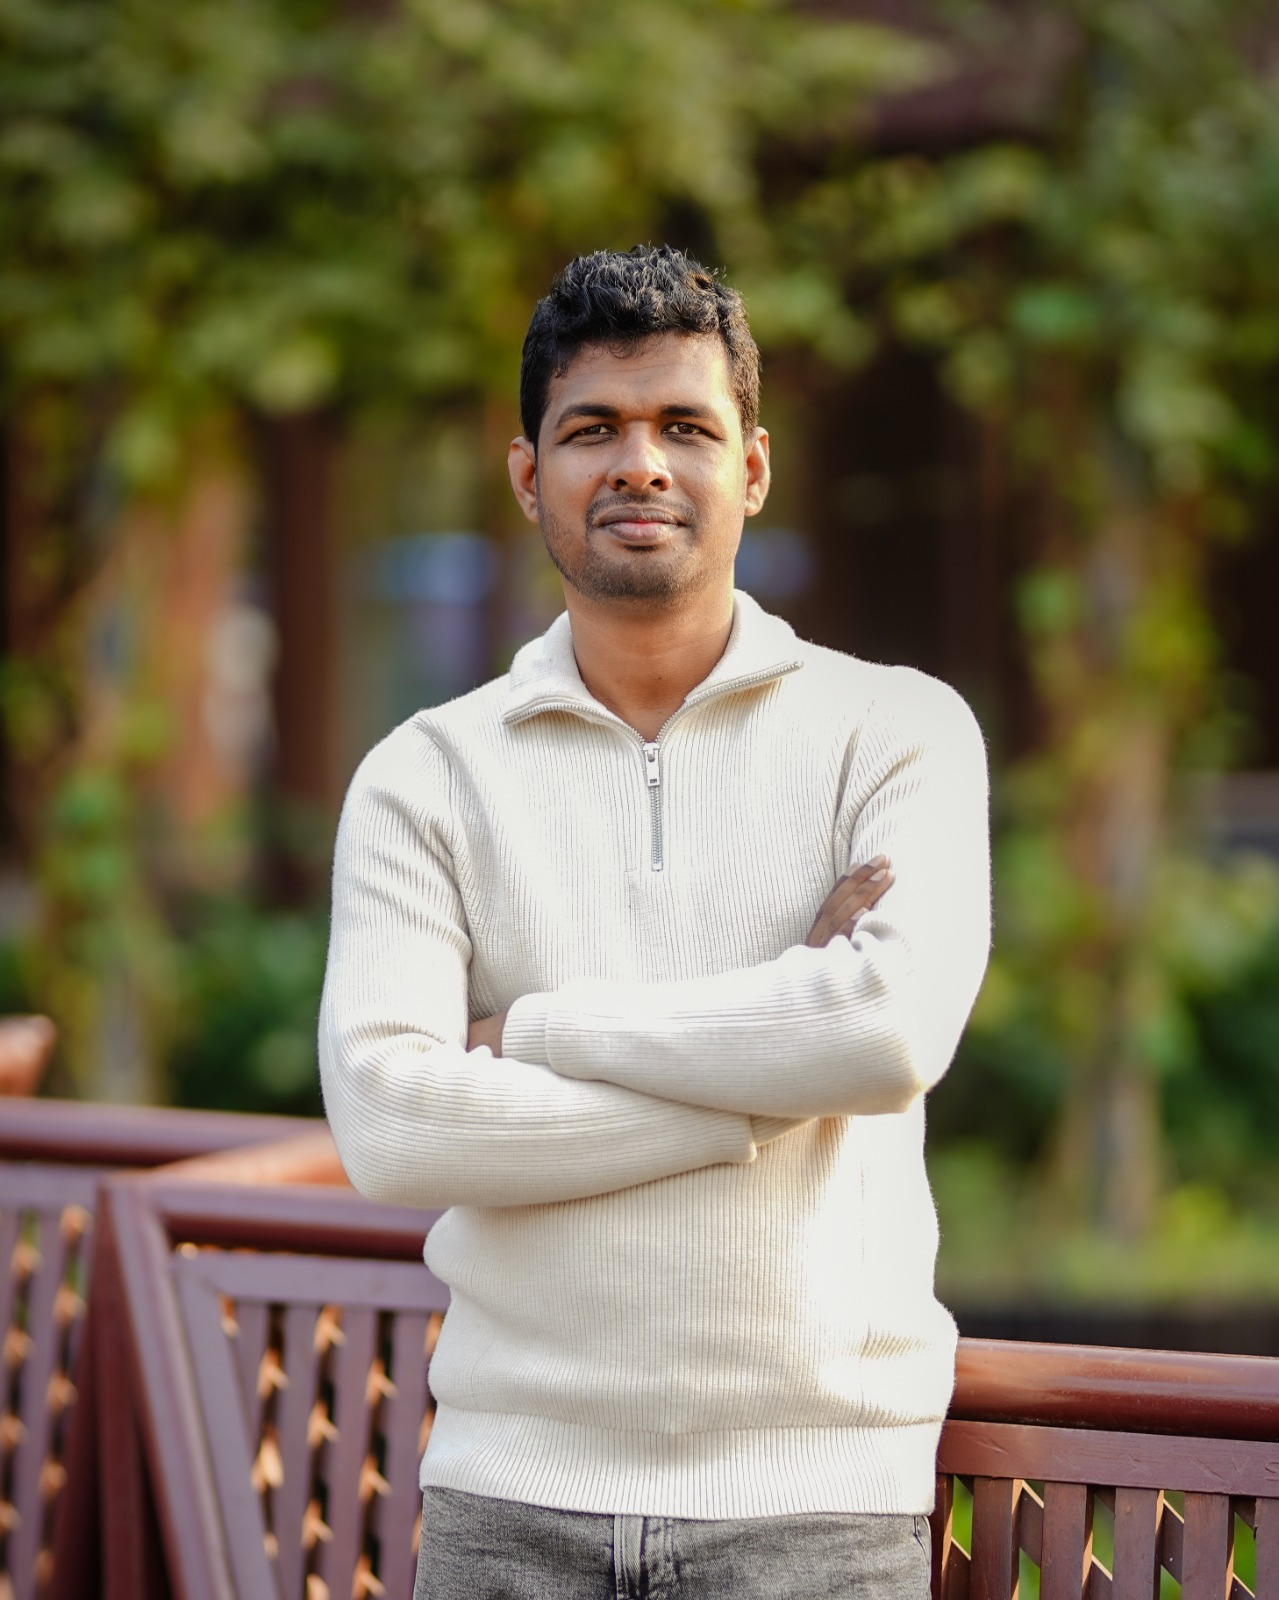
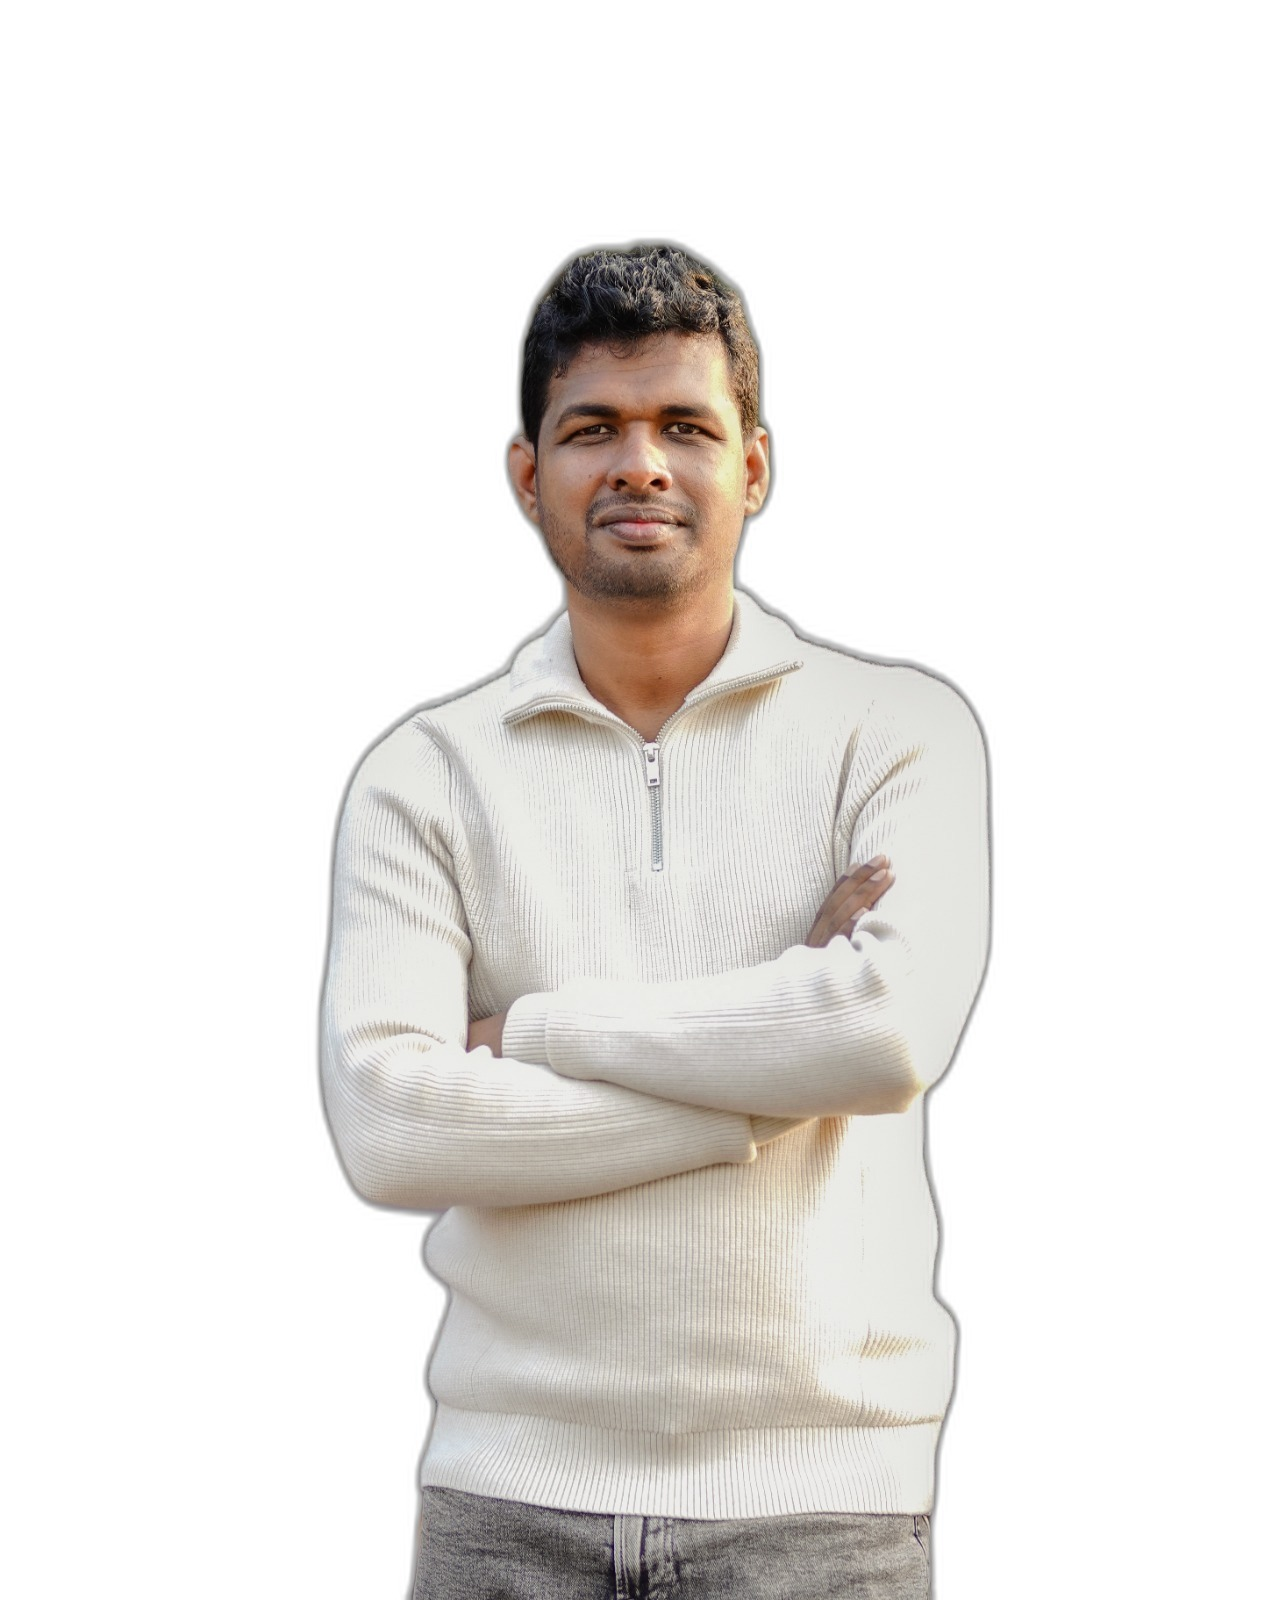
Update website components

diff --git a/components/Leadership.tsx b/components/Leadership.tsx
@@ -66,7 +66,7 @@ const operationalTeam: OperationalMember[] = [
     designation: 'Deputy Manager',
     department: 'Technology Sales',
     email: 'atiq@ensure-bd.com',
-    photo: '/team/md atiqur rahaman.jpeg',
+    photo: '/team/Atiq .jpeg',
   },
   {
     id: 5,
@@ -74,22 +74,22 @@ const operationalTeam: OperationalMember[] = [
     designation: 'Asst. Manager',
     department: 'Technology Sales',
     email: 'sadequr@ensure-bd.com',
-    photo: null,
+    photo: '/team/sedequr Rahman.jpeg',
   },
   {
     id: 6,
     name: 'Mohammad Ekramul Hoq',
     designation: 'Manager',
     department: 'Data Center & Virtualization',
-    email: undefined,
+    email: 'ekram@ensure-bd.com',
     photo: '/team/Mohammad Ekramul Hoq.jpeg',
   },
   {
     id: 7,
     name: 'Akbar Hossain',
-    designation: undefined,
-    department: undefined,
-    email: undefined,
+    designation: 'Asst. Manager',
+    department: 'Commercial',
+    email: 'akbar.hossain@ess-bd.com',
     photo: '/team/akbar Hossain (2).jpeg',
   },
   {
@@ -98,7 +98,7 @@ const operationalTeam: OperationalMember[] = [
     designation: 'Deputy Manager',
     department: 'Cyber Security Solutions',
     email: 'faruk@ensure-bd.com',
-    photo: null,
+    photo: '/team/faruk ahmed.jpeg',
   },
   {
     id: 9,
@@ -119,17 +119,17 @@ const operationalTeam: OperationalMember[] = [
   {
     id: 11,
     name: 'Md. Hedaet Sheikh',
-    designation: undefined,
-    department: undefined,
-    email: undefined,
-    photo: null,
+    designation: 'Solution Architect',
+    department: 'Network & Security',
+    email: 'hedaet@ensure-bd.com',
+    photo: '/team/Md .hedaet shekh .jpeg',
   },
   {
     id: 12,
     name: 'Mushfiqur Rahman Kaoushik',
     designation: 'Sr. Executive',
     department: 'Network & Security',
-    email: undefined,
+    email: 'koushik@ensure-bd.com',
     photo: '/team/Mushfiqur Rahman Kaoushik.jpeg',
   },
   {
@@ -138,22 +138,22 @@ const operationalTeam: OperationalMember[] = [
     designation: 'Deputy Manager',
     department: 'Network & Security',
     email: 'anirban@ensure-bd.com',
-    photo: null,
+    photo: '/team/anirban shil.jpeg',
   },
   {
     id: 14,
     name: 'Jahidul Islam',
     designation: 'Sr. Network & Security Engineer',
     department: 'Network & Security',
-    email: undefined,
-    photo: null,
+    email: 'jahid@ensure-bd.com',
+    photo: '/team/jahid.jpeg',
   },
   {
     id: 15,
     name: 'Sultan Mahmud Pial',
     designation: 'System Engineer',
     department: 'Cyber Security Solutions',
-    email: undefined,
+    email: 'pial@ensure-bd.com',
     photo: '/team/System Engineer.jpeg',
   },
   {
@@ -178,7 +178,7 @@ const operationalTeam: OperationalMember[] = [
     designation: 'Asst. Manager',
     department: 'HR & Admin',
     email: 'mehedi.hasan@ensure-bd.com',
-    photo: null,
+    photo: '/team/mehedi hasan.jpeg',
   },
 ];
 

diff --git a/scripts/remove_bg.py b/scripts/remove_bg.py
@@ -1,0 +1,111 @@
+# -*- coding: utf-8 -*-
+"""
+Background removal script for ESSL team photos.
+- Removes background from each photo using rembg (AI-based)
+- Composites the cutout onto a solid #FFFFFF white background
+- Keeps original dimensions and file format (JPEG for .jpeg, PNG for .png)
+- Overwrites originals in-place (same filenames/paths)
+"""
+
+import os
+import sys
+from pathlib import Path
+
+# Force UTF-8 output on Windows terminals
+if hasattr(sys.stdout, 'reconfigure'):
+    sys.stdout.reconfigure(encoding='utf-8', errors='replace')
+from PIL import Image
+import io
+
+# All team photos referenced in Leadership.tsx (relative to public/)
+TEAM_PHOTOS = [
+    # Executive team
+    "golam-mostafa 1.jpeg",
+    "partha-biswas.png",
+    "mohammad-faisal1.jpeg",
+    # Operational team
+    "probir kanti biswas.jpeg",
+    "sourav debnath shovro.jpeg",
+    "H.M Towhid.jpeg",
+    "Atiq .jpeg",
+    "sedequr Rahman.jpeg",
+    "Mohammad Ekramul Hoq.jpeg",
+    "akbar Hossain (2).jpeg",
+    "faruk ahmed.jpeg",
+    "md sahol imam.jpeg",
+    "Rifat Raihan.jpeg",
+    "Md .hedaet shekh .jpeg",
+    "Mushfiqur Rahman Kaoushik.jpeg",
+    "anirban shil.jpeg",
+    "jahid.jpeg",
+    "System Engineer.jpeg",
+    "AL- Mamun.jpeg",
+    "Ali Akbar  Malla.jpeg",
+    "mehedi hasan.jpeg",
+]
+
+def process_photo(src_path: Path) -> None:
+    """Remove background and composite onto white, save in-place."""
+    from rembg import remove
+
+    print(f"  Processing: {src_path.name} ...", end=" ", flush=True)  # noqa
+
+    with open(src_path, "rb") as f:
+        input_data = f.read()
+
+    # Determine original size for reference
+    with Image.open(src_path) as orig:
+        orig_size = orig.size  # (width, height)
+        orig_mode = orig.mode
+
+    # AI background removal → RGBA PNG bytes
+    output_data = remove(input_data)
+
+    # Load the RGBA cutout
+    cutout = Image.open(io.BytesIO(output_data)).convert("RGBA")
+
+    # Create solid white canvas at the same size
+    white_bg = Image.new("RGBA", cutout.size, (255, 255, 255, 255))
+    white_bg.paste(cutout, (0, 0), mask=cutout)
+
+    # Convert to RGB (no alpha) for JPEG, keep as RGB/RGBA for PNG
+    ext = src_path.suffix.lower()
+    if ext in (".jpg", ".jpeg"):
+        final = white_bg.convert("RGB")
+        final.save(src_path, format="JPEG", quality=92, optimize=True)
+    else:  # .png
+        final = white_bg.convert("RGB")  # white bg → no alpha needed
+        final.save(src_path, format="PNG", optimize=True)
+
+    print(f"done  ({orig_size[0]}x{orig_size[1]} -> {cutout.size[0]}x{cutout.size[1]})")
+
+
+def main():
+    team_dir = Path(__file__).parent.parent / "public" / "team"
+    if not team_dir.exists():
+        print(f"ERROR: Team photo directory not found: {team_dir}")
+        sys.exit(1)
+
+    print(f"Team photo directory: {team_dir}")
+    print(f"Processing {len(TEAM_PHOTOS)} photos...\n")
+
+    failed = []
+    for filename in TEAM_PHOTOS:
+        src = team_dir / filename
+        if not src.exists():
+            print(f"  WARNING: File not found, skipping: {filename}")
+            failed.append(filename)
+            continue
+        try:
+            process_photo(src)
+        except Exception as e:
+            print(f"  ERROR processing {filename}: {e}")
+            failed.append(filename)
+
+    print(f"\n[OK] Done. {len(TEAM_PHOTOS) - len(failed)}/{len(TEAM_PHOTOS)} photos processed successfully.")
+    if failed:
+        print(f"[FAIL] Failed/skipped: {', '.join(failed)}")
+
+
+if __name__ == "__main__":
+    main()
